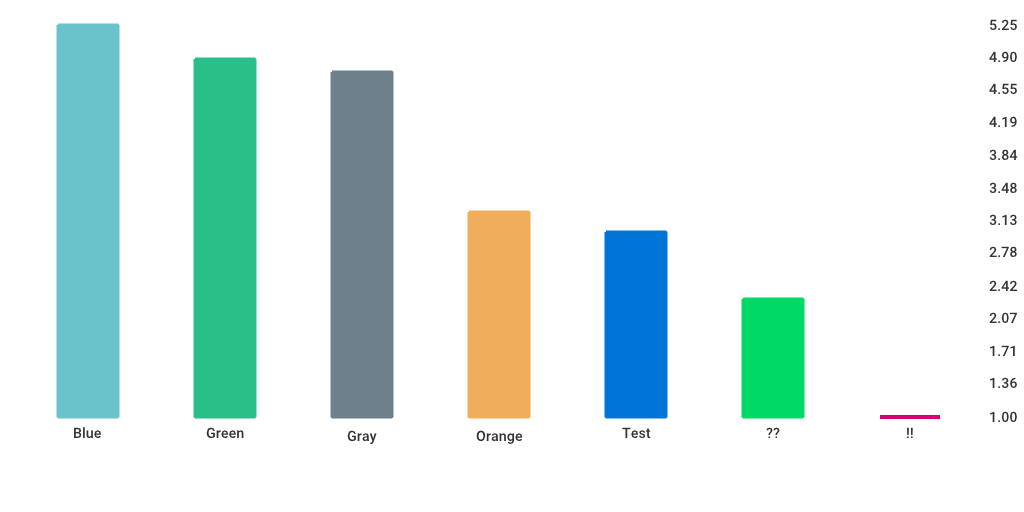
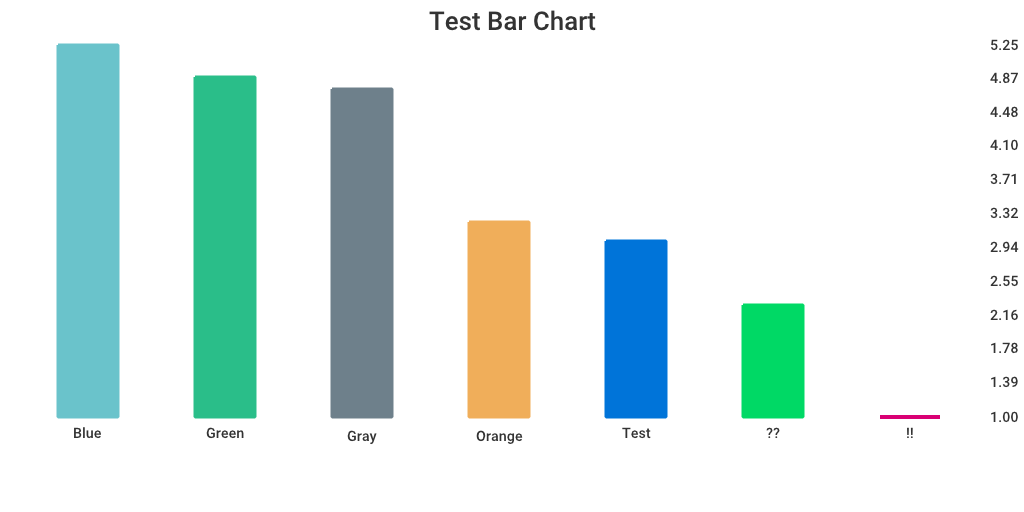
Port changes 'fixing styling issues w/ the stack bar chart.' from commit a0ea0129036c613675742b96f051df3a1a08821f

diff --git a/bar_chart.go b/bar_chart.go
@@ -126,7 +126,7 @@ func (bc BarChart) Render(rp RendererProvider, w io.Writer) error {
 		canvasBox = bc.getAdjustedCanvasBox(r, canvasBox, yr, yt)
 		yr = bc.setRangeDomains(canvasBox, yr)
 	}
-
+	bc.drawCanvas(r, canvasBox)
 	bc.drawBars(r, canvasBox, yr)
 	bc.drawXAxis(r, canvasBox)
 	bc.drawYAxis(r, canvasBox, yr, yt)
@@ -137,6 +137,10 @@ func (bc BarChart) Render(rp RendererProvider, w io.Writer) error {
 	}
 
 	return r.Save(w)
+}
+
+func (bc BarChart) drawCanvas(r Renderer, canvasBox Box) {
+	Draw.Box(r, canvasBox, bc.getCanvasStyle())
 }
 
 func (bc BarChart) getRanges() Range {
@@ -280,7 +284,32 @@ func (bc BarChart) drawYAxis(r Renderer, canvasBox Box, yr Range, ticks []Tick) 
 
 func (bc BarChart) drawTitle(r Renderer) {
 	if len(bc.Title) > 0 && bc.TitleStyle.Show {
-		Draw.TextWithin(r, bc.Title, bc.box(), bc.styleDefaultsTitle())
+		r.SetFont(bc.TitleStyle.GetFont(bc.GetFont()))
+		r.SetFontColor(bc.TitleStyle.GetFontColor(bc.GetColorPalette().TextColor()))
+		titleFontSize := bc.TitleStyle.GetFontSize(bc.getTitleFontSize())
+		r.SetFontSize(titleFontSize)
+
+		textBox := r.MeasureText(bc.Title)
+
+		textWidth := textBox.Width()
+		textHeight := textBox.Height()
+
+		titleX := (bc.GetWidth() >> 1) - (textWidth >> 1)
+		titleY := bc.TitleStyle.Padding.GetTop(DefaultTitleTop) + textHeight
+
+		r.Text(bc.Title, titleX, titleY)
+	}
+}
+
+func (bc BarChart) getCanvasStyle() Style {
+	return bc.Canvas.InheritFrom(bc.styleDefaultsCanvas())
+}
+
+func (bc BarChart) styleDefaultsCanvas() Style {
+	return Style{
+		FillColor:   bc.GetColorPalette().CanvasColor(),
+		StrokeColor: bc.GetColorPalette().CanvasStrokeColor(),
+		StrokeWidth: DefaultCanvasStrokeWidth,
 	}
 }
 
@@ -397,8 +426,8 @@ func (bc BarChart) box() Box {
 	dpb := bc.Background.Padding.GetBottom(50)
 
 	return Box{
-		Top:    20,
-		Left:   20,
+		Top:    bc.Background.Padding.GetTop(20),
+		Left:   bc.Background.Padding.GetLeft(20),
 		Right:  bc.GetWidth() - dpr,
 		Bottom: bc.GetHeight() - dpb,
 	}

diff --git a/_examples/bar_chart/main.go b/_examples/bar_chart/main.go
@@ -11,6 +11,13 @@ import (
 
 func drawChart(res http.ResponseWriter, req *http.Request) {
 	sbc := chart.BarChart{
+		Title:      "Test Bar Chart",
+		TitleStyle: chart.StyleShow(),
+		Background: chart.Style{
+			Padding: chart.Box{
+				Top: 40,
+			},
+		},
 		Height:   512,
 		BarWidth: 60,
 		XAxis: chart.Style{
